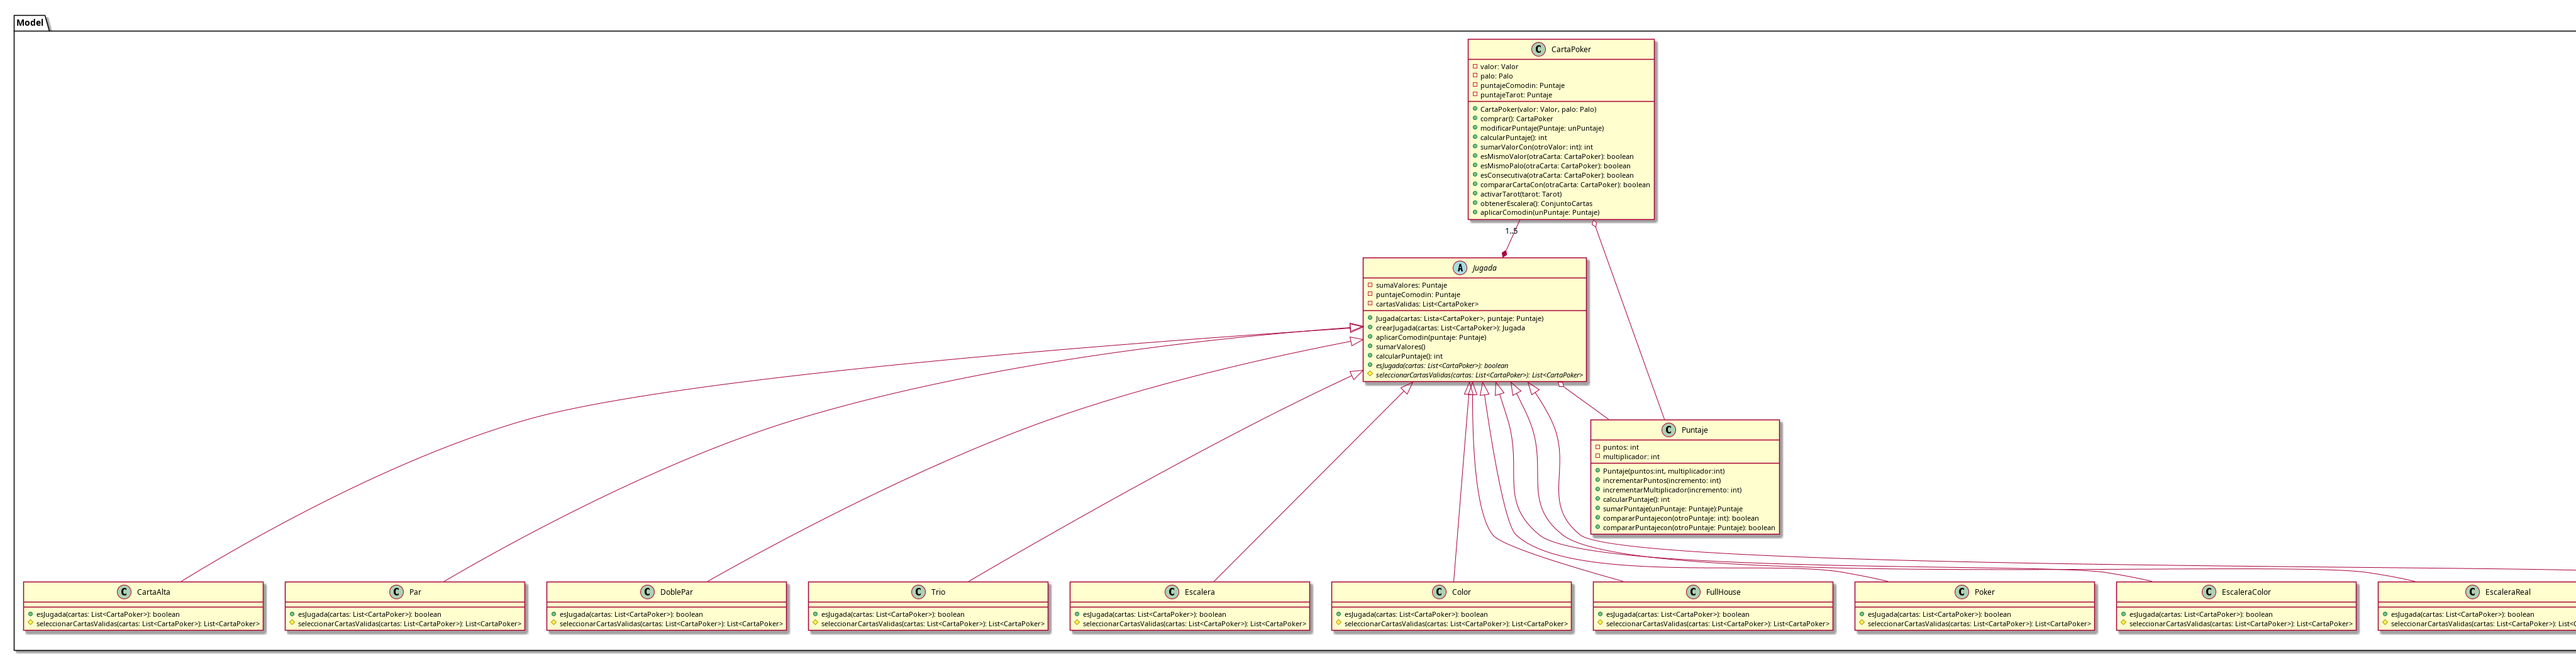
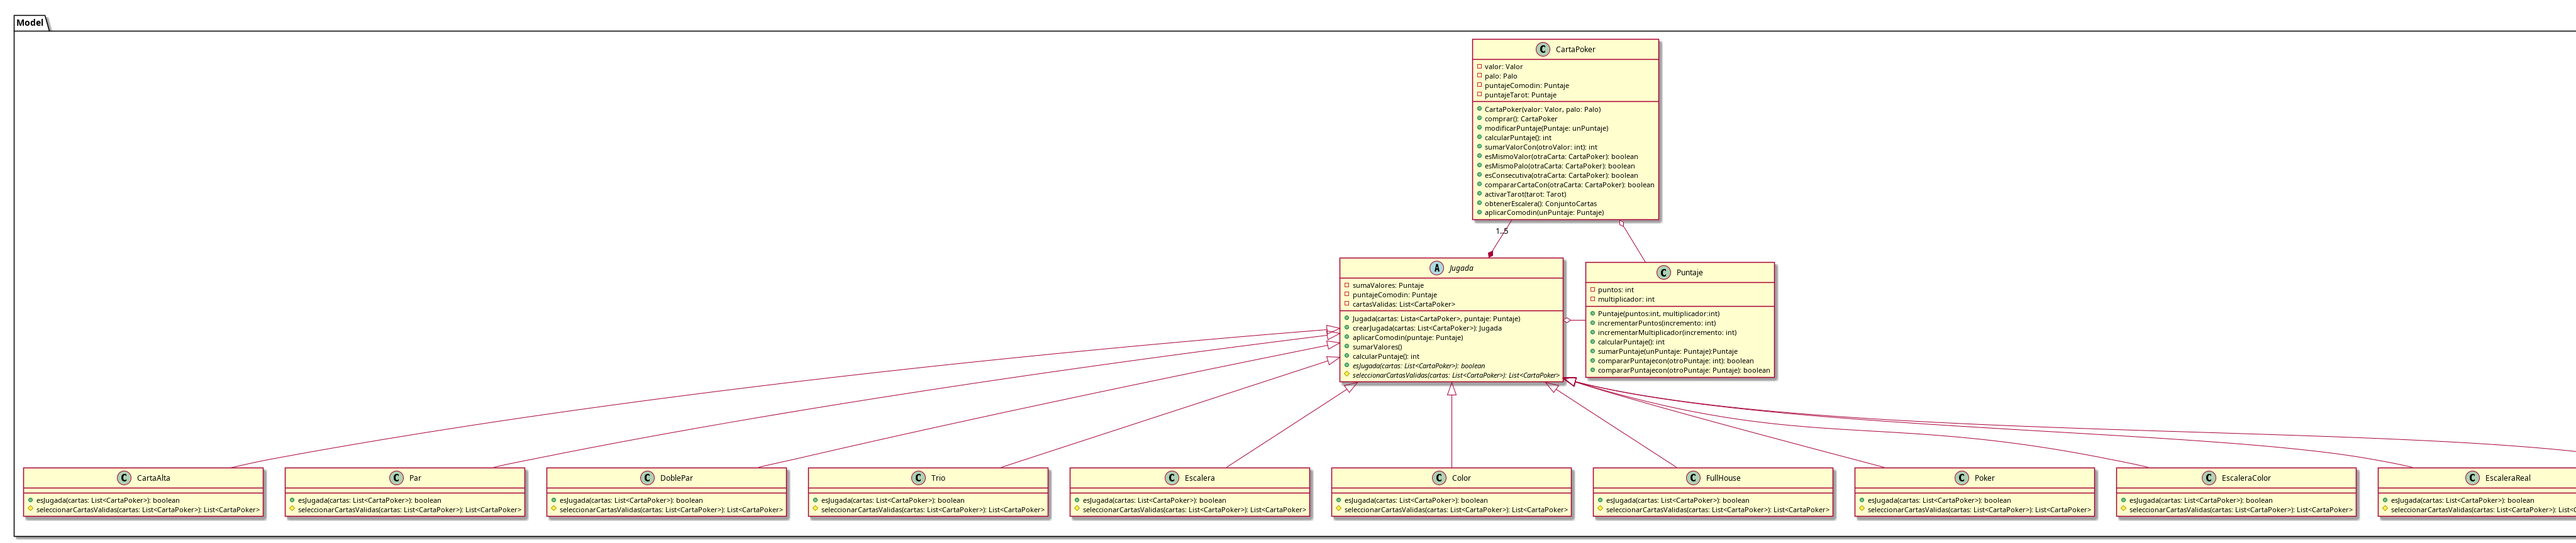
Modifico diagramas de clase de los comodiens

diff --git a/src/main/test/edu/fiuba/algo3/entrega_2/IntegracionTest2.java b/src/main/test/edu/fiuba/algo3/entrega_2/IntegracionTest2.java
@@ -105,7 +105,7 @@ public class IntegracionTest2 {
         ArrayList<CartaPoker> cartas = new ArrayList<>(List.of(carta1, carta2, carta3, carta4, carta5));
         Mano mano = new Mano(cartas);
         Puntaje puntaje = new Puntaje(10, 1);
-        Comodin unComodin = new EfectoDescarte(Descarte.class, puntaje, "Descartar suma" ,"+10 si realiza un descarte");
+        Comodin unComodin = new EfectoJugada(Descarte.class, puntaje, "Descartar suma" ,"+10 si realiza un descarte");
         Jugador jugador = new Jugador("Pepe", mazoMock) {
             @Override
             public void iniciarRonda(Ronda rondaActual){
